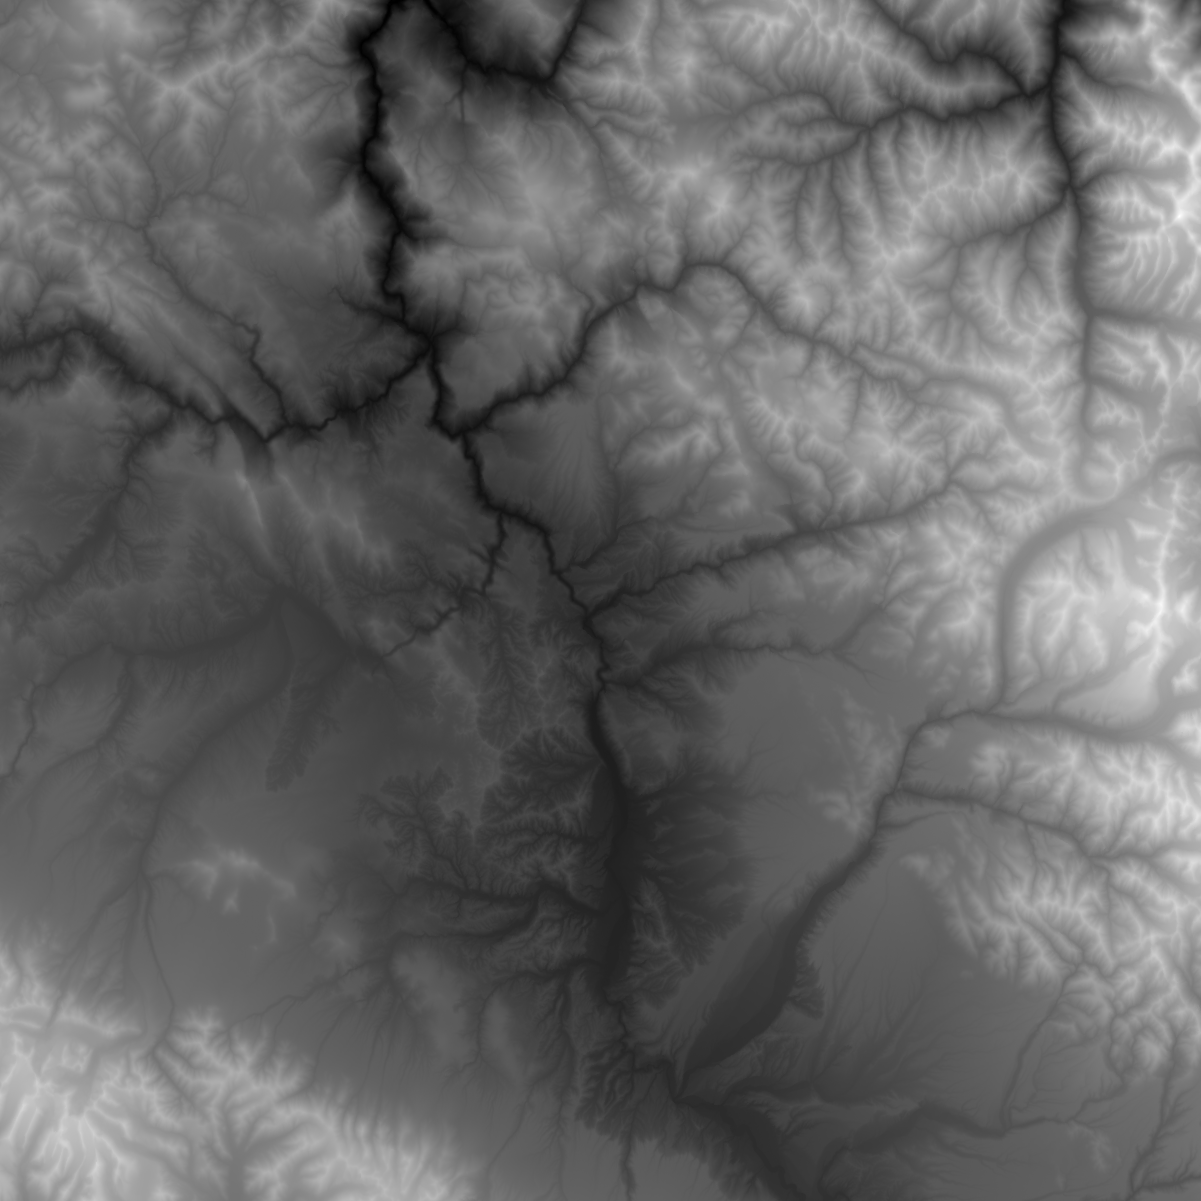
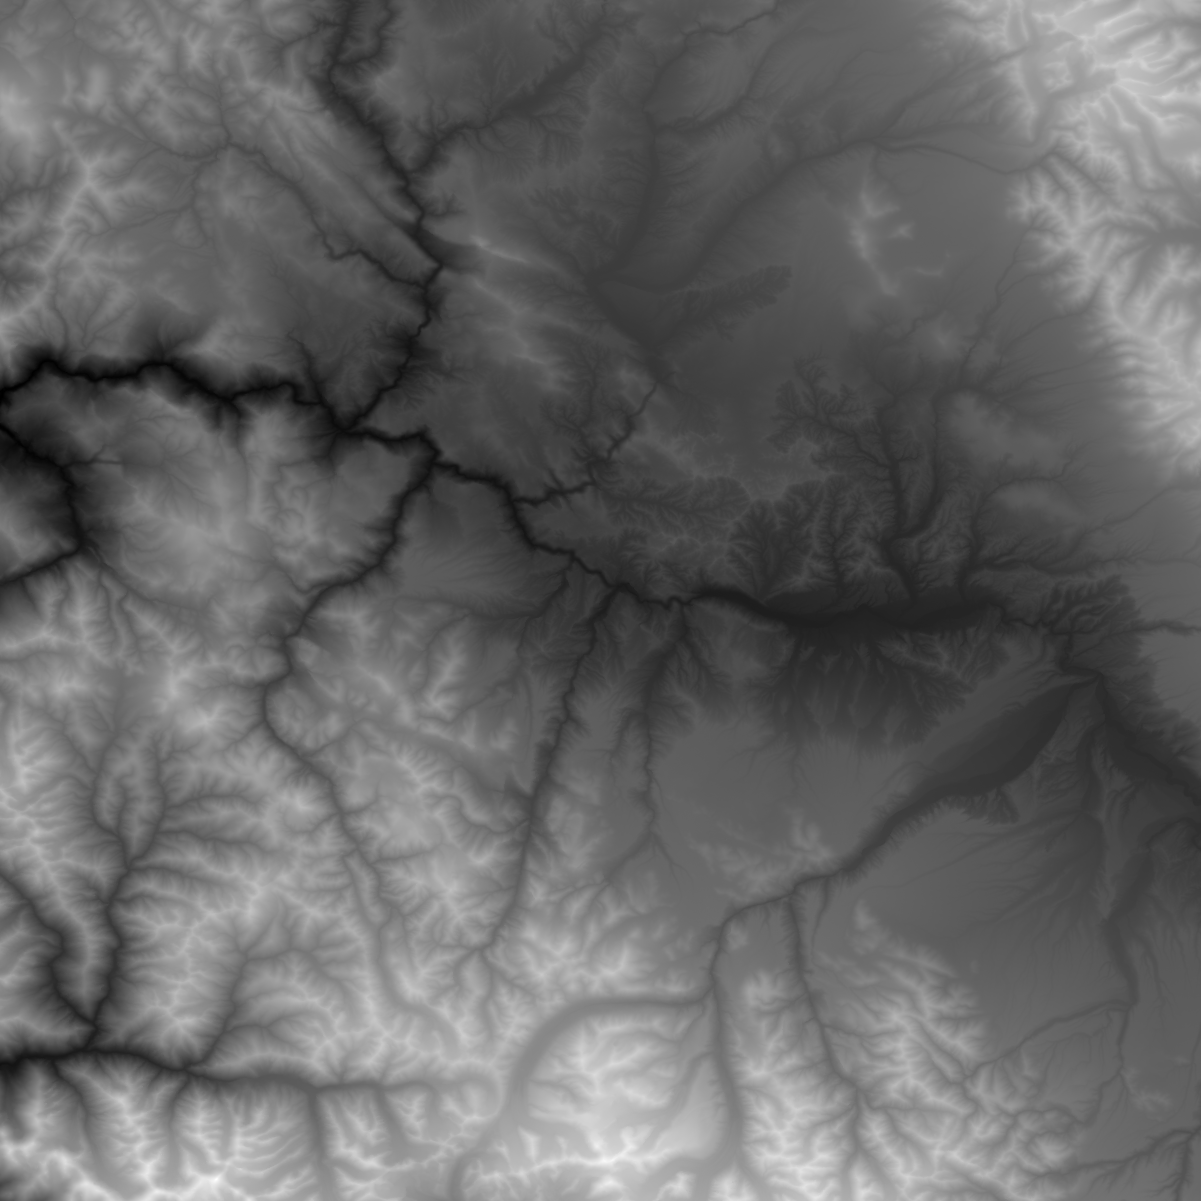
fixed image rendering rotated/mirrored to correct image

diff --git a/pathfinder.py b/pathfinder.py
@@ -1,10 +1,11 @@
 from PIL import Image
 small = 'elevation_small.txt'
 large = 'elevation_large.txt'
+test = 'test_grid.txt'
 
 coordinates = []
 
-with open(small, 'r') as file:
+with open(large, 'r') as file:
     for line in file.readlines():
         coordinates.append(line.split())
     print(coordinates)
@@ -28,11 +29,12 @@ print (el_delta)
 
 def calc_color_value (elevation, min_el, max_el) :
     color_value = (((int(elevation) - min_el)/(el_delta)) * 255)
-    print(int(color_value), int(color_value), int(color_value))
+    # print (int(color_value), int(color_value), int(color_value))
     return (int(color_value), int(color_value), int(color_value))
 
 # determines the pixel dimensions of the required picture 
-dimensions = len(coordinates), len(coordinates[0])
+
+dimensions = len(coordinates[0]), len(coordinates)
 print (dimensions)
 
 # img = Image.new('RGB', dimensions, color = (200, 200, 200))
@@ -41,7 +43,6 @@ print (dimensions)
 img = Image.new('RGB', dimensions,)
 for x in range(dimensions[0]):
         for y in range(dimensions[1]):
-            img.putpixel((x, y), calc_color_value(
-                coordinates[x][y], min_el, max_el))
-# img.save('mountain_image.png')
-img.save(small[0:len(small)-3] + 'png')
+            img.putpixel((y, x), calc_color_value(
+                coordinates[x][y], min_el, max_el)) #changing putpixel to y,x rotated image 90 degrees and mirrored#
+img.save(large[0:len(large)-3] + 'png')
